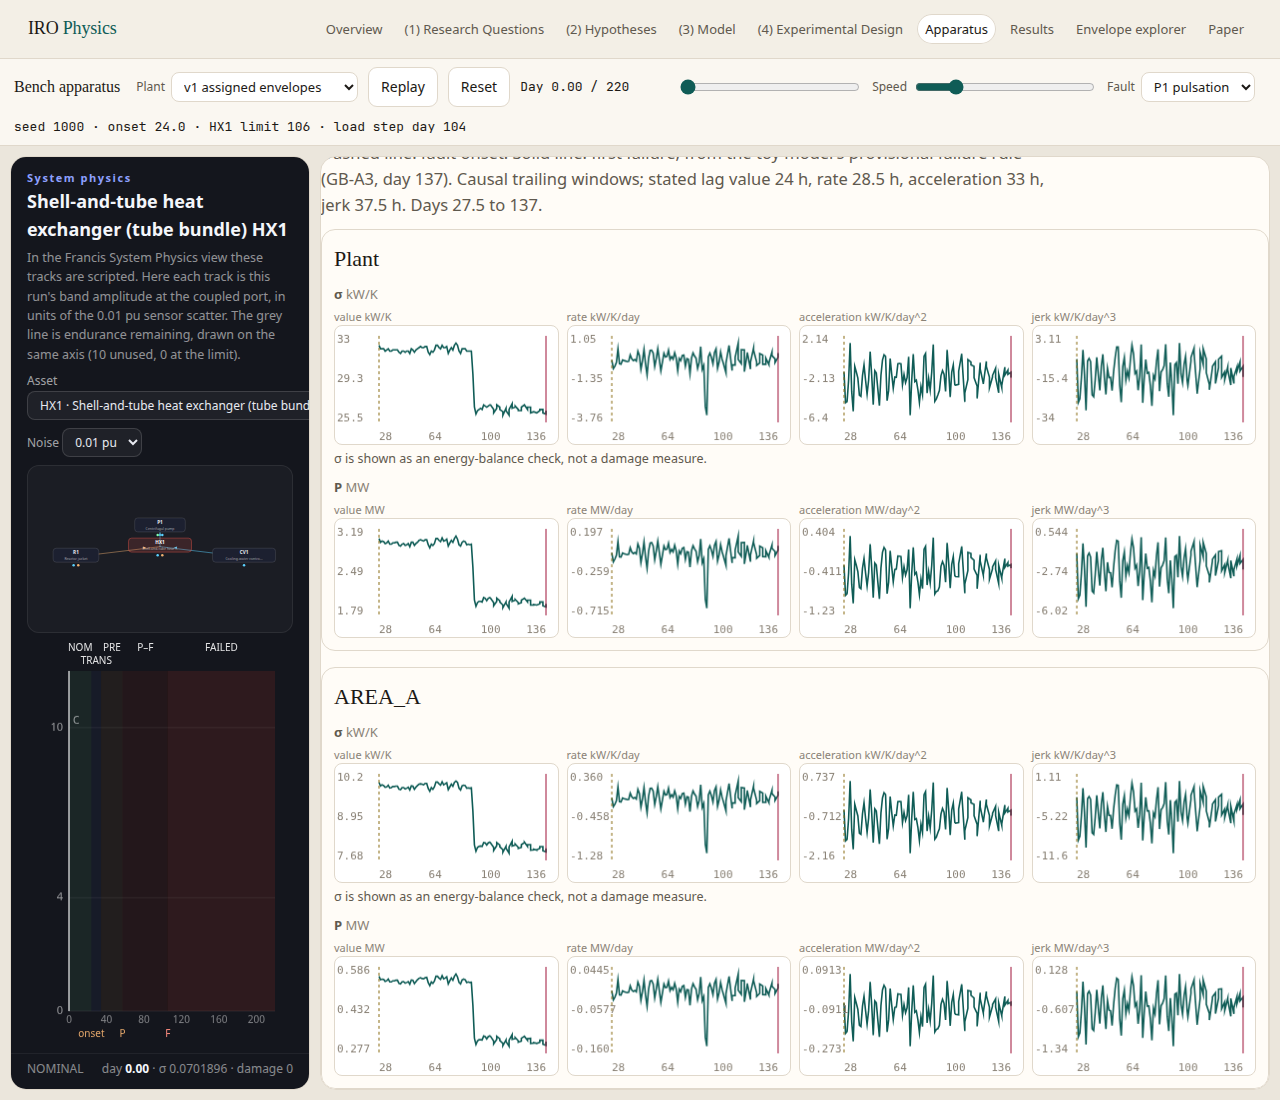
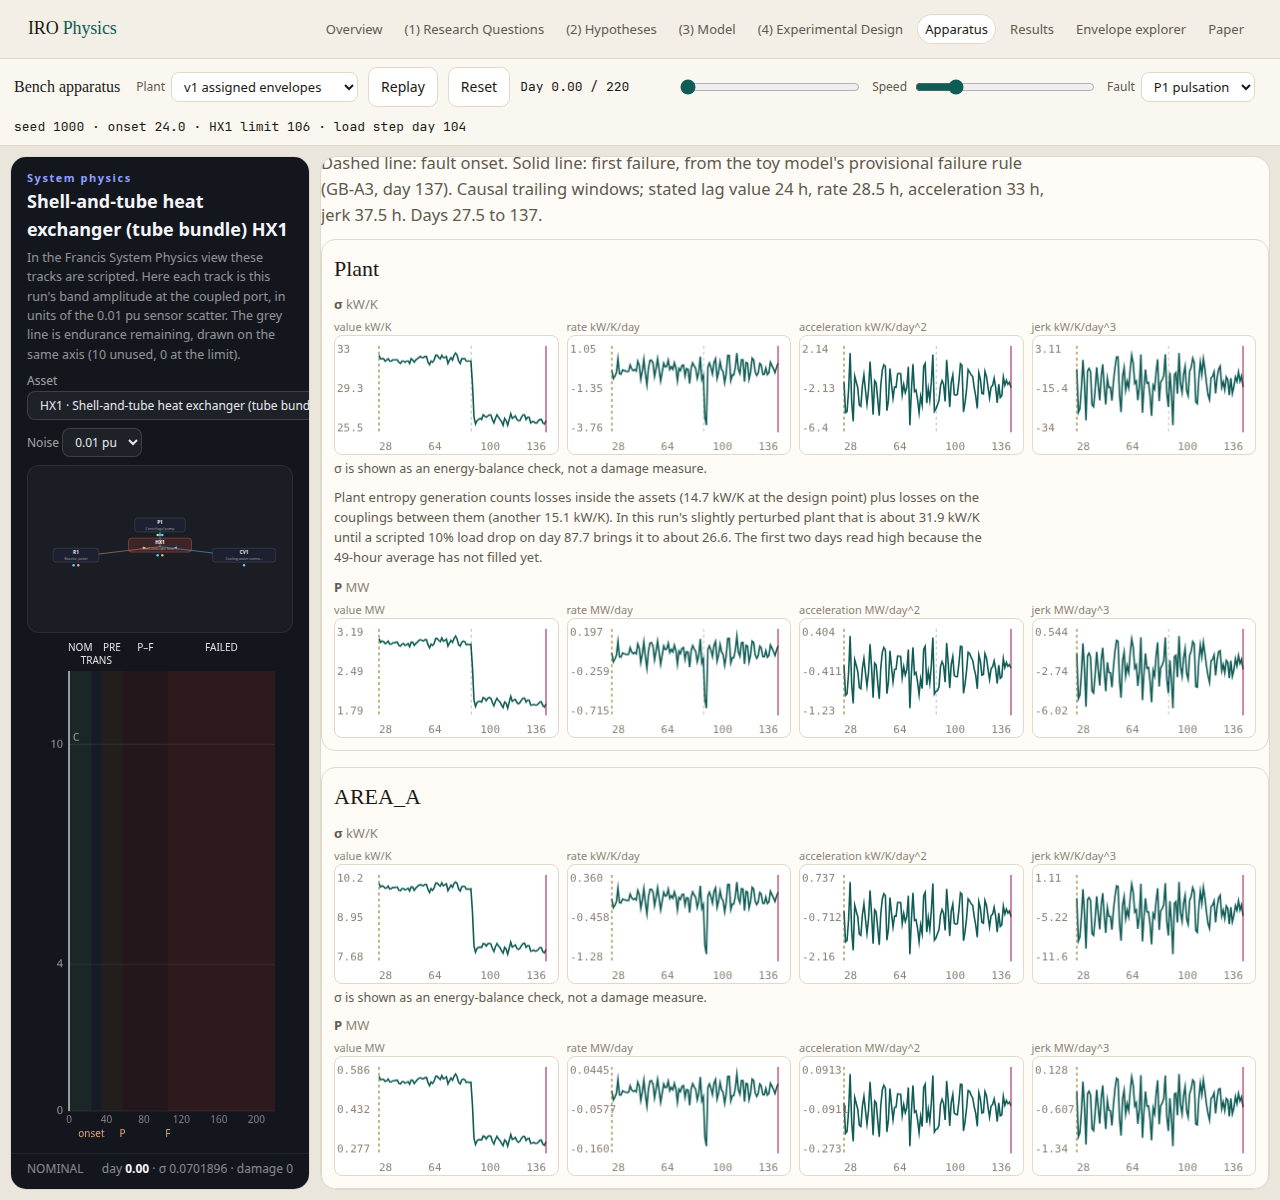
Caption the plant entropy chart and mark the load step
The day axis from main is 400 unique days, so the trace keeps a steady spacing past day 100. Under the plant sigma charts, state the design split and the levels read from this run, and draw a faint line at the scripted load-step day.

diff --git a/site/js/envelope-tree.js b/site/js/envelope-tree.js
@@ -17,6 +17,39 @@ function baseUnit(text) {
   return match ? match[0] : "";
 }
 
+function loadStepDay(info) {
+  const raw = info && (info.load_step_day ?? info.load_step?.start_day ?? info.load_step?.day);
+  const n = Number(raw);
+  return Number.isFinite(n) ? n : 87.7;
+}
+
+function median(values) {
+  const sorted = values.filter((value) => Number.isFinite(value)).sort((a, b) => a - b);
+  if (!sorted.length) return null;
+  return sorted[Math.floor(sorted.length / 2)];
+}
+
+function plantSigmaCaption(info, series) {
+  const days = series.day || [];
+  const sigma = (series.row?.sigma?.[0] || []).map(Number);
+  const step = loadStepDay(info);
+  const fail = Number(info?.first_failure?.day);
+  const before = [];
+  const after = [];
+  days.forEach((day, index) => {
+    const t = Number(day);
+    if (t >= 4 && t < step) before.push(sigma[index]);
+    if (t >= step + 4 && (!Number.isFinite(fail) || t <= fail)) after.push(sigma[index]);
+  });
+  const beforeLevel = median(before);
+  const afterLevel = median(after);
+  const hours = String(info?.smoothing || "").match(/last (\d+) hourly/);
+  const windowHours = hours ? hours[1] : "49";
+  const beforeText = beforeLevel == null ? "32" : sig3(beforeLevel);
+  const afterText = afterLevel == null ? "26.5" : sig3(afterLevel);
+  return `Plant entropy generation counts losses inside the assets (14.7 kW/K at the design point) plus losses on the couplings between them (another 15.1 kW/K). In this run's slightly perturbed plant that is about ${beforeText} kW/K until a scripted 10% load drop on day ${sig3(step)} brings it to about ${afterText}. The first two days read high because the ${windowHours}-hour average has not filled yet.`;
+}
+
 export function mountNest(root, { peer } = {}) {
   root.classList.add("nest-root");
   root.innerHTML = `
@@ -313,9 +346,13 @@ export function mountNest(root, { peer } = {}) {
       const panels = (key) => [0, 1, 2, 3].map((order) =>
         `<figure><figcaption>${orderName(info, order)} <span>${unitFor(info, key, order)}</span></figcaption><canvas data-series="${key}" data-order="${order}" data-node="${node.id}"></canvas></figure>`
       ).join("");
+      const plantNote = node.id === "PLANT" && series
+        ? `<p class="plant-sigma">${plantSigmaCaption(info, series)}</p>`
+        : "";
       return `<article class="calc-card"><h2 title="${node.name}">${label(node)}</h2>
         <h3>σ <span>${unitFor(info, "sigma", 0)}</span></h3><div class="orders">${panels("sigma")}</div>
         <p class="sigma-check">σ is shown as an energy-balance check, not a damage measure.</p>
+        ${plantNote}
         <h3>P <span>${unitFor(info, "boundary_power", 0)}</span></h3><div class="orders">${panels("boundary_power")}</div></article>`;
     }).join("");
     lastDraw = { blocks, info, token };
@@ -330,11 +367,12 @@ export function mountNest(root, { peer } = {}) {
       const idx = indicesFor(series.day);
       const onset = info && info.fault_onset_day != null ? nearest(series.day, info.fault_onset_day) : -1;
       const fail = info && info.first_failure ? nearest(series.day, info.first_failure.day) : -1;
+      const loadStep = node.id === "PLANT" ? loadStepDay(info) : null;
       for (const key of ["sigma", "boundary_power"]) {
         [0, 1, 2, 3].forEach((order) => {
           const canvas = chartsEl.querySelector(`canvas[data-node="${node.id}"][data-series="${key}"][data-order="${order}"]`);
           if (!canvas) return;
-          drawSeries(canvas, series.row[key][order], series.day, idx, { onset, fail });
+          drawSeries(canvas, series.row[key][order], series.day, idx, { onset, fail, loadStep });
         });
       }
     }
@@ -410,6 +448,9 @@ export function mountNest(root, { peer } = {}) {
     const xIndex = (index) => (idx.includes(index) ? xDay(days[index]) : null);
     markLine(ctx, xIndex(marks.onset), padT, height - padB, "#8a6d12", true);
     markLine(ctx, xIndex(marks.fail), padT, height - padB, "#9f1239", false);
+    if (marks.loadStep != null && Number(marks.loadStep) >= d0 && Number(marks.loadStep) <= d1) {
+      markLine(ctx, xDay(marks.loadStep), padT, height - padB, "rgba(28,25,21,0.28)", true);
+    }
     ctx.fillStyle = "#8a8276";
     ctx.font = "11px ui-monospace, monospace";
     const yTicks = [hi, (hi + lo) / 2, lo];

diff --git a/site/css/site.css b/site/css/site.css
@@ -138,6 +138,7 @@ h1 {
 .orders canvas { width: 100%; height: 120px; display: block; background: #fff; border-radius: 8px; border: 1px solid var(--line); }
 .orders figcaption span, .calc-card h3 span { color: var(--faint); font-weight: 500; }
 .sigma-check { margin: 4px 0 8px; color: var(--muted); font-size: 12.5px; }
+.plant-sigma { margin: 0 0 10px; color: var(--muted); font-size: 13px; max-width: 88ch; }
 .pane .nest-root { height: 100%; overflow: auto; padding: 10px 12px 28px; }
 @media (min-width: 1100px) {
   body.app #v1views #physics { flex: 0 0 300px; }
